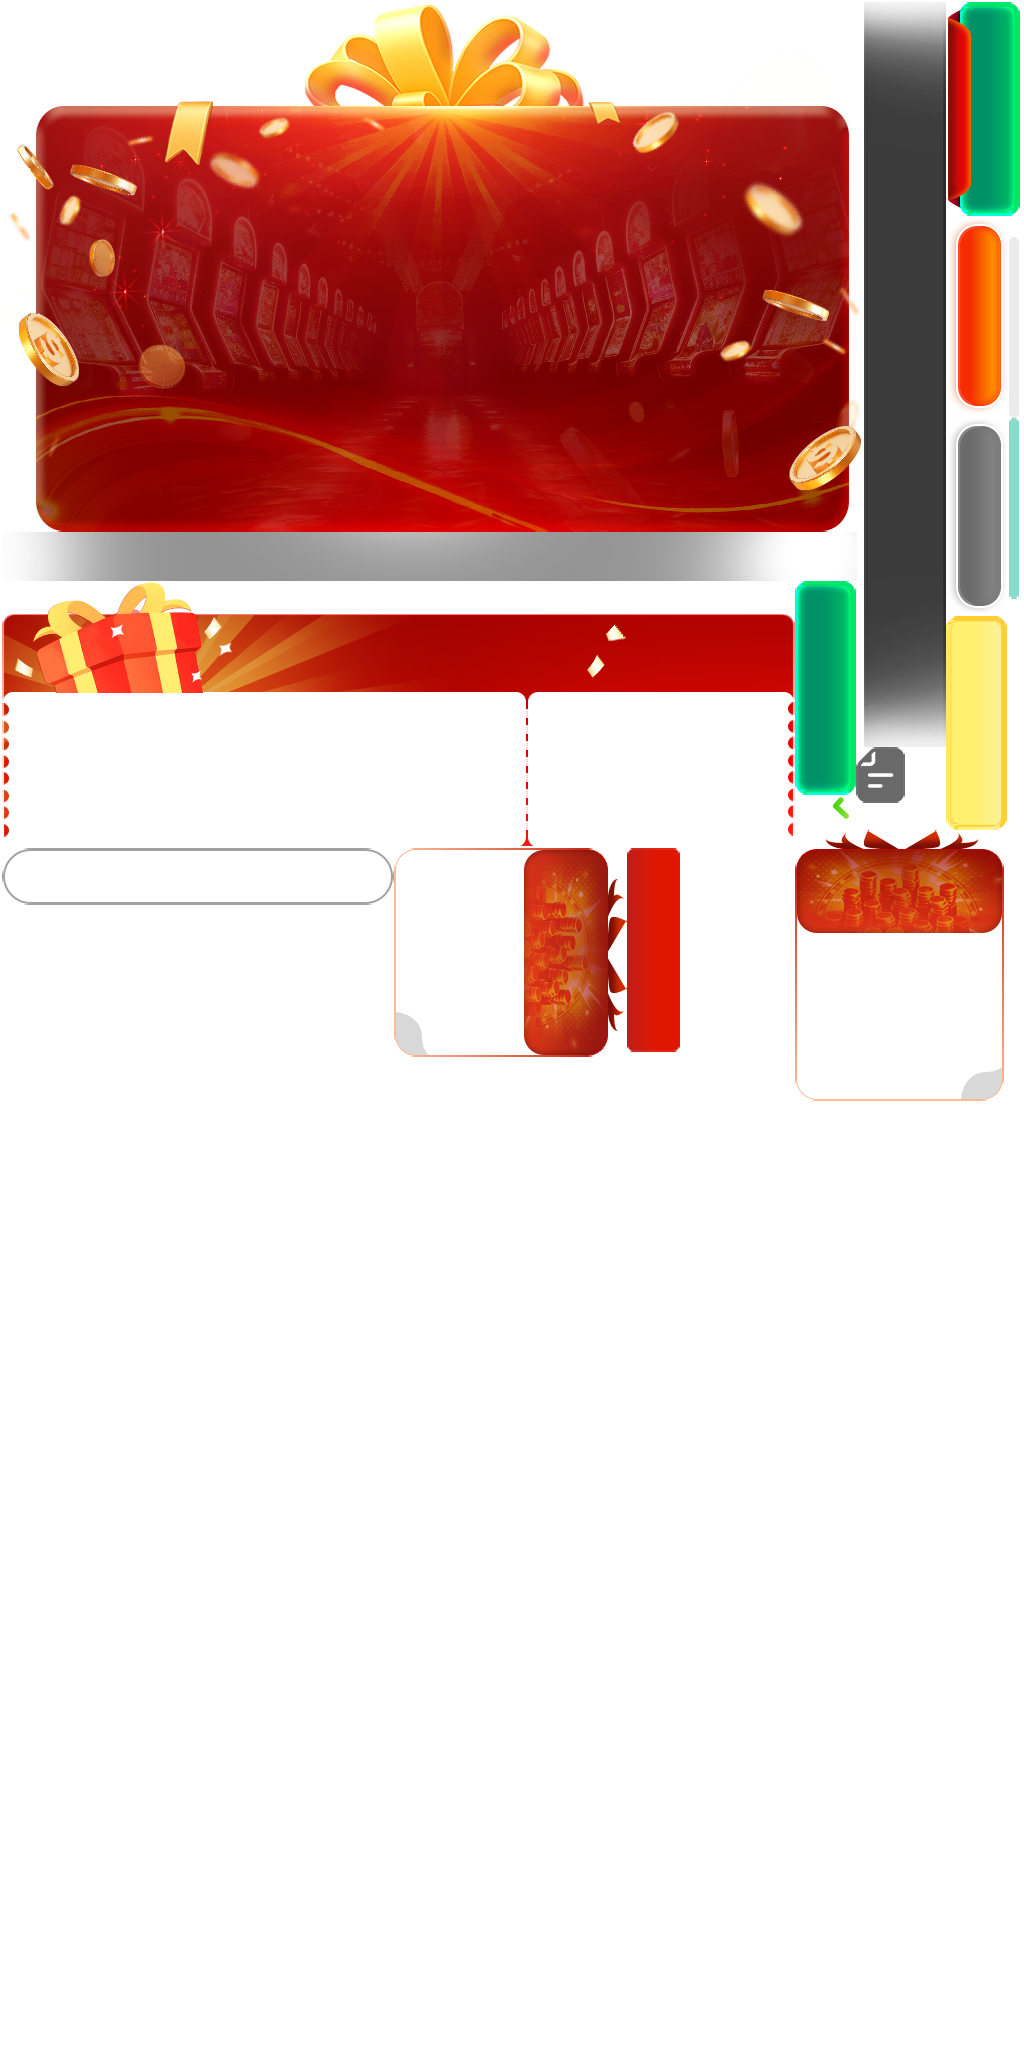
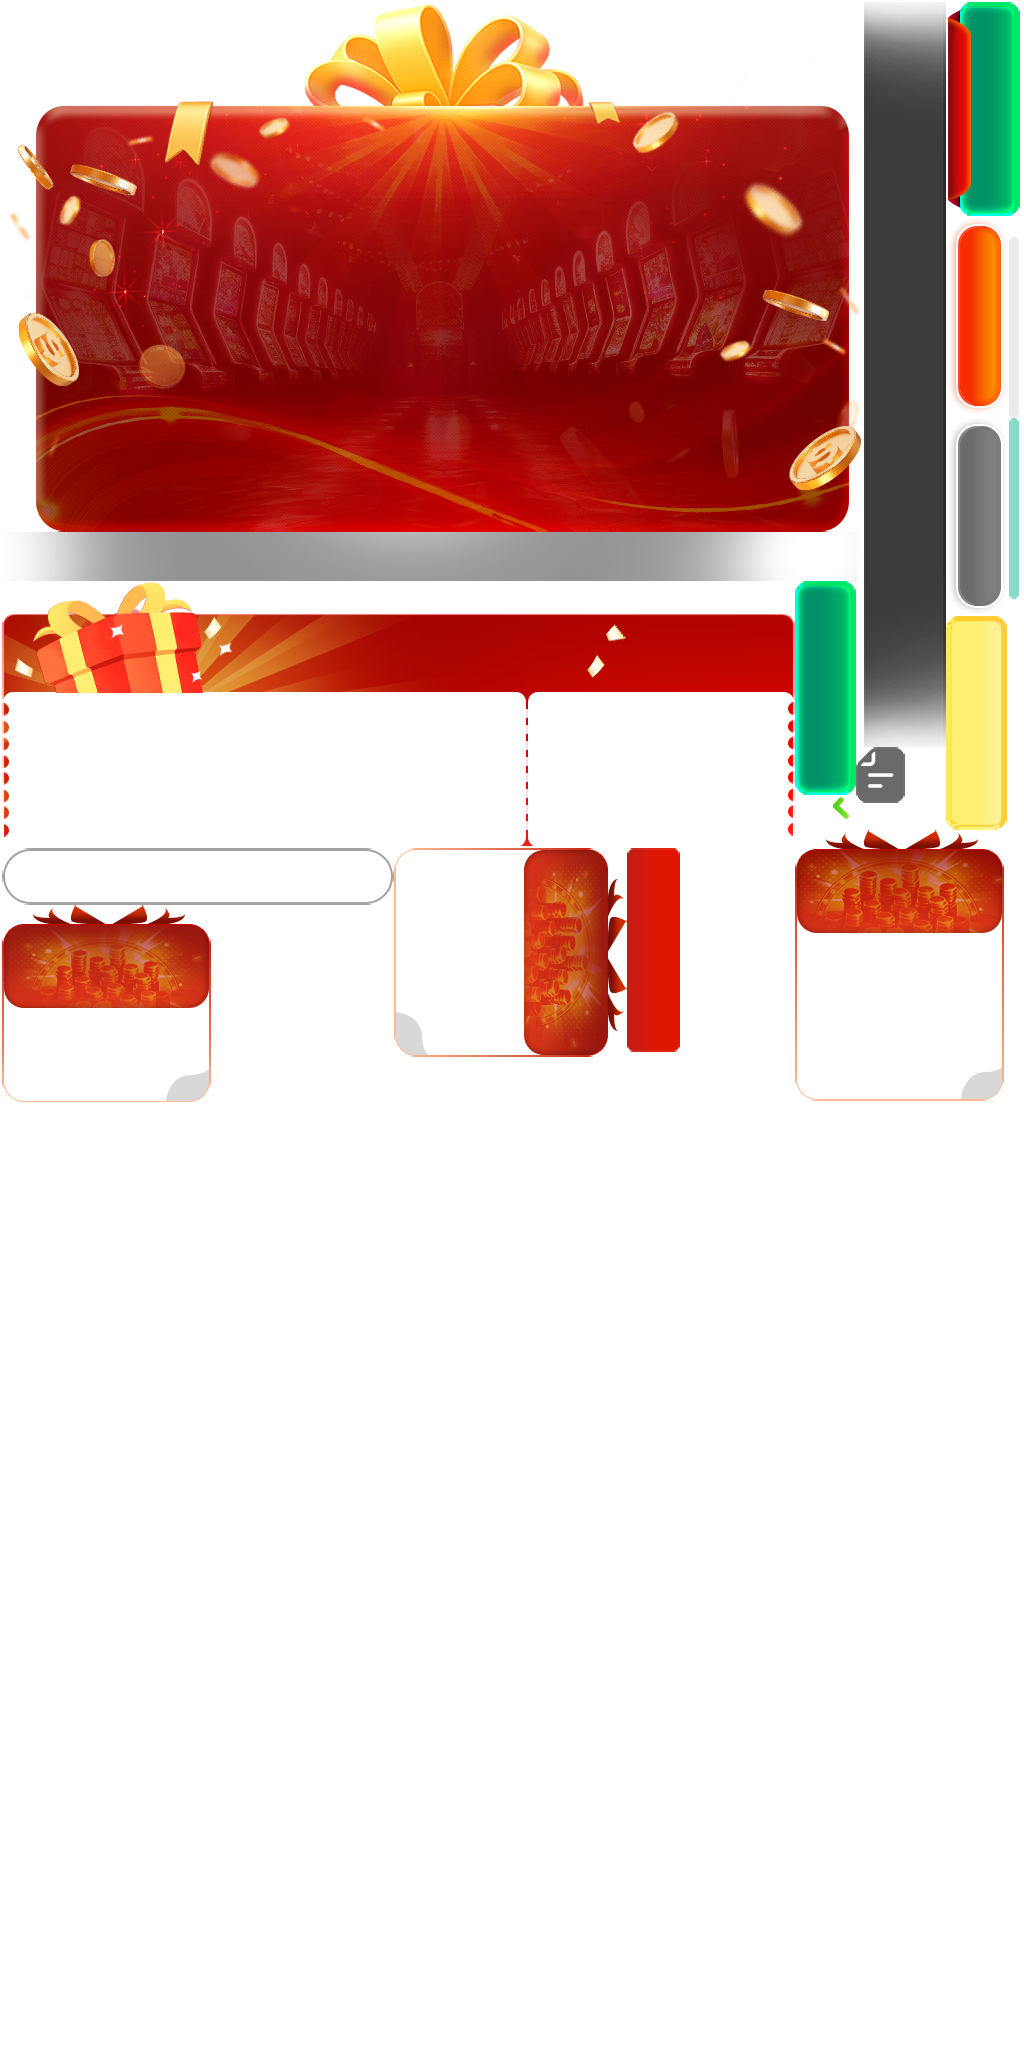
feat: add UI promotion info

Changed region(s): [[0.0, 0.4375, 0.2188, 0.5625]]

diff --git a/assets/fsb-promotion/scripts/components/fsb-promotion-info.ts b/assets/fsb-promotion/scripts/components/fsb-promotion-info.ts
@@ -1,0 +1,12 @@
+import { _decorator, Label } from "cc";
+import { ObserverComponent } from "db://shared-components/shared/common-components/observer-component/scripts/observer-component";
+
+const { ccclass, property } = _decorator;
+
+@ccclass()
+export class FSBPromotionInfo extends ObserverComponent {
+    @property(Label) labelTotalWin: Label = null;
+    @property(Label) labelFSB: Label = null;
+    @property(Label) labelBetLevel: Label = null;
+    @property(Label) labelTotalBet: Label = null;
+}
